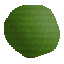
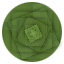
new tree texture, rendererAngles

diff --git a/src/rtsd2015/tol/pm/Level.java b/src/rtsd2015/tol/pm/Level.java
@@ -158,6 +158,7 @@ public class Level {
 					if (!placed && getWillBePlaced(WorldFillProbability.BIGROCK)) {
 						placed = true;
 						entity = new EntityBigRock(i, j);
+						setRandomRenderAngle(entity);
 						staticEntities.add(entity);
 						entityBoard[i][j] = entity;
 						hitboxBoard[i][j] = Hitbox.STATIC;
@@ -165,6 +166,7 @@ public class Level {
 					if (!placed && getWillBePlaced(WorldFillProbability.SMALLROCK)) {
 						placed = true;
 						entity = new EntitySmallRock(i, j);
+						setRandomRenderAngle(entity);
 						dynamicEntities.add(entity);
 						entityBoard[i][j] = entity;
 						hitboxBoard[i][j] = Hitbox.BREAKABLE;
@@ -172,6 +174,7 @@ public class Level {
 					if (!placed && getWillBePlaced(WorldFillProbability.TREE)) {
 						placed = true;
 						entity = new EntityTree(i, j);
+						setRandomRenderAngle(entity);
 						staticEntities.add(entity);
 						entityBoard[i][j] = entity;
 						hitboxBoard[i][j] = Hitbox.STATIC;
@@ -286,10 +289,25 @@ public class Level {
 		if (side == Side.RED) {targetR = targetR + count;}
 	}
 
+	/**
+	 * The exact count of targets left
+	 *
+	 * @param side
+	 * @return
+	 */
 	public double getTargetCount(Side side) {
 		if (side == Side.BLUE) {return targetB;}
 		if (side == Side.RED) {return targetR;}
 		return 0;
+	}
+
+	/**
+	 * Randomize entity's render angle (local)
+	 *
+	 * @param entity
+	 */
+	public void setRandomRenderAngle(Entity entity) {
+		entity.setRenderAngle(getRandomInt(360, 0));
 	}
 
 	/**

diff --git a/src/rtsd2015/tol/pm/Entity.java b/src/rtsd2015/tol/pm/Entity.java
@@ -43,6 +43,7 @@ public class Entity {
 	protected boolean breakable = true;
 	protected boolean alive = true;
 	protected boolean isTarget = false;
+	protected int renderAngle = 0;
 
 	/**
 	 * Initialize entity
@@ -323,6 +324,14 @@ public class Entity {
 
 	public boolean isTarget() {
 		return isTarget;
+	}
+
+	public void setRenderAngle(int angle) {
+		this.renderAngle = angle;
+	}
+
+	public int getRenderAngle() {
+		return this.renderAngle;
 	}
 
 }

diff --git a/src/rtsd2015/tol/pm/ClientRenderer.java b/src/rtsd2015/tol/pm/ClientRenderer.java
@@ -233,7 +233,7 @@ public class ClientRenderer implements Runnable {
 
 	private void drawStaticResources() {
 		for (Entity entity : staticEntities) {
-			drawImage(false, true, tileImages.get(entity.getTile()), 0, entity.getGridPos()[0], entity.getGridPos()[1], tileSize, tileSize);
+			drawImage(false, true, tileImages.get(entity.getTile()), entity.getRenderAngle(), entity.getGridPos()[0], entity.getGridPos()[1], tileSize, tileSize);
 		}
 	}
 
